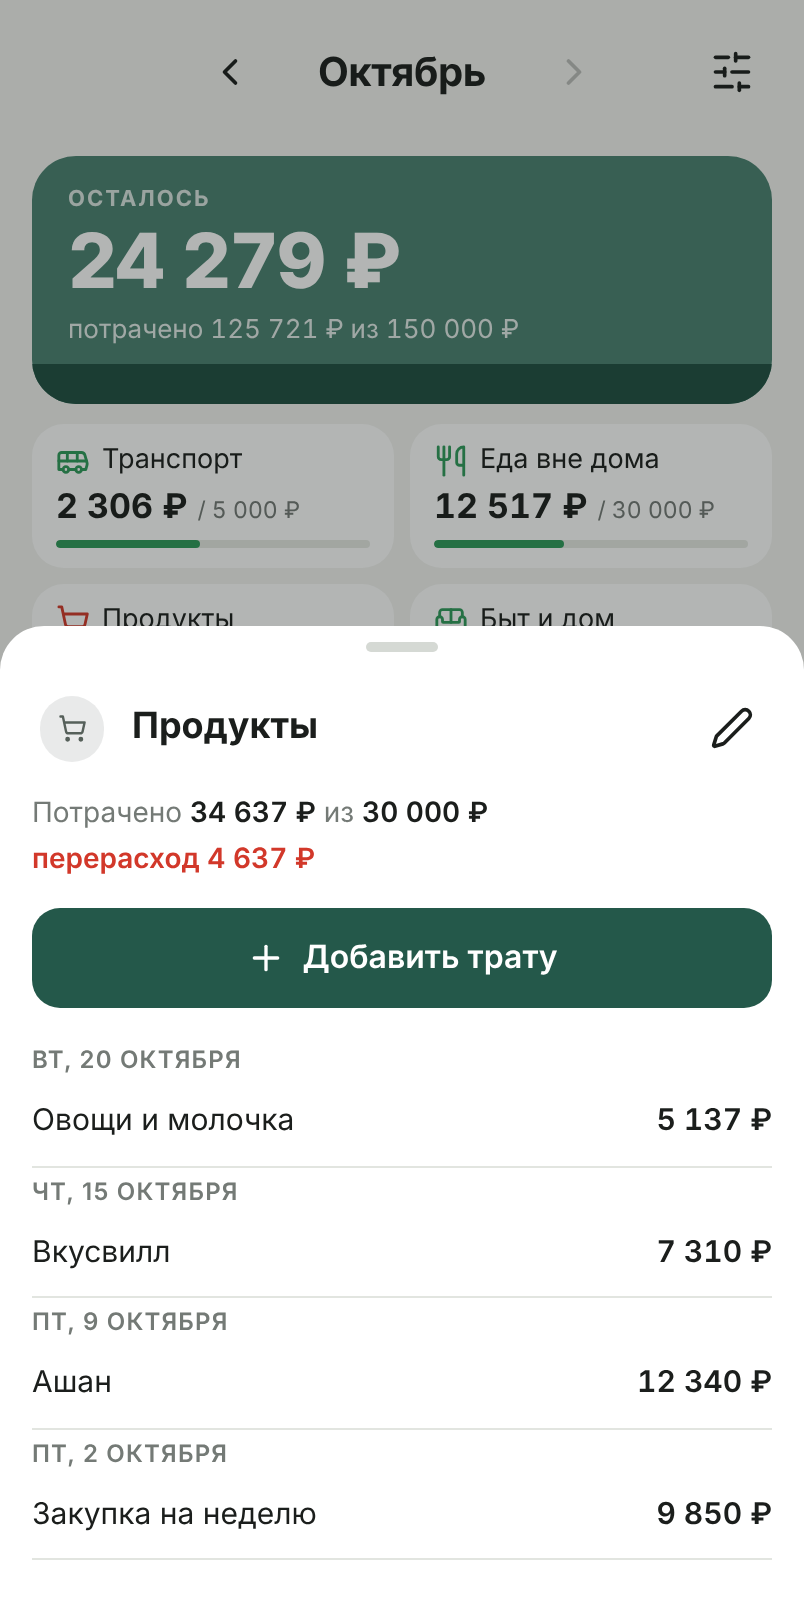
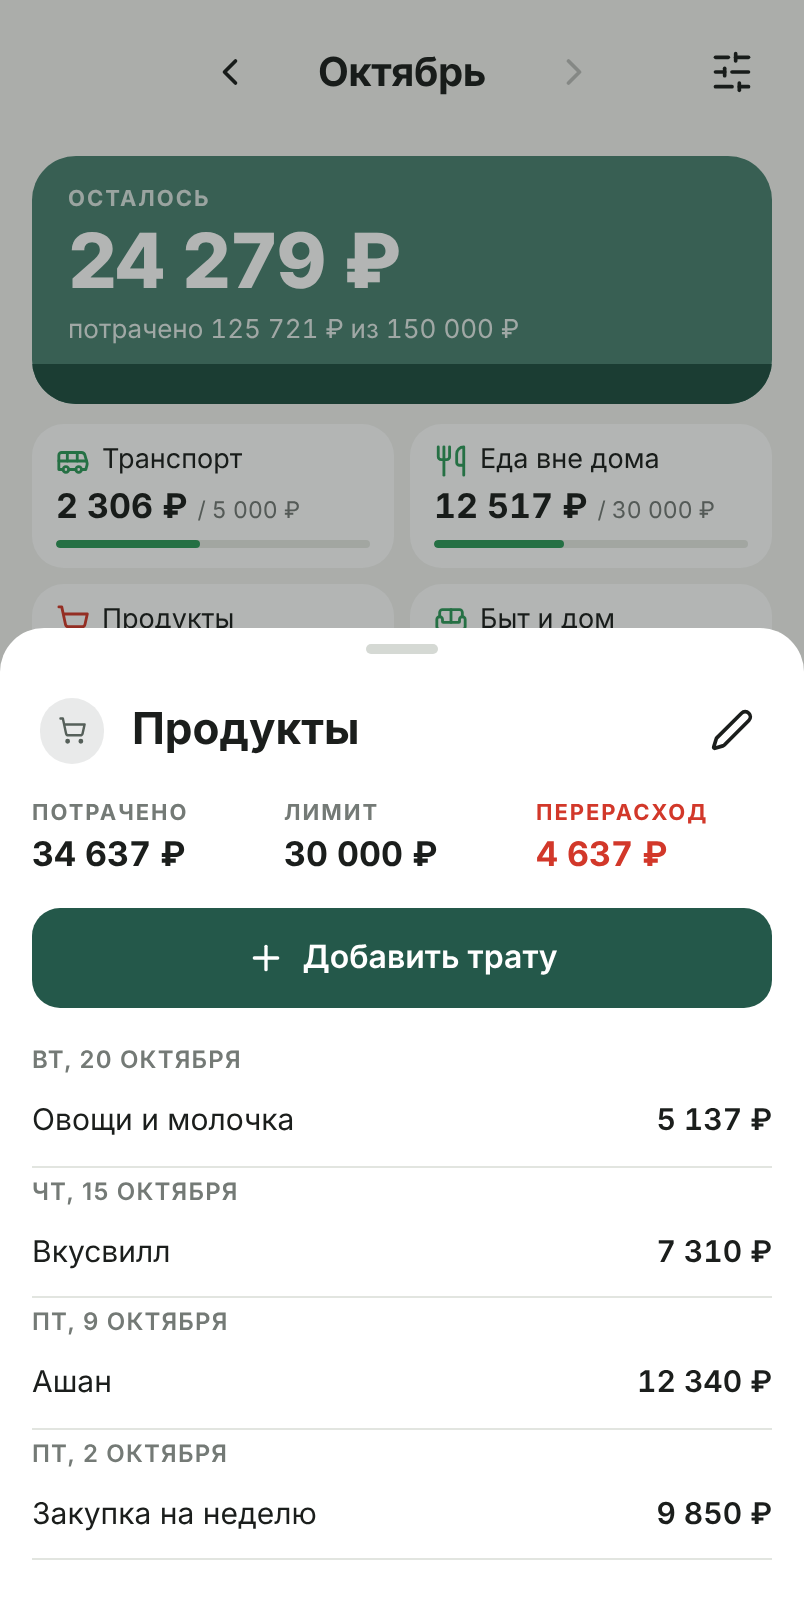
v19: сводка истории категории — три колонки цифр, название 22 px
Claude-Session: https://claude.ai/code/session_01NUxBgZgHQdb2XAd7oC1HRD

diff --git a/index.html b/index.html
@@ -148,6 +148,7 @@ body.dragging .cat:not(.add) { box-shadow: 0 0 0 1.5px var(--line); }
 .sheet-head { display: flex; align-items: center; gap: 10px; min-height: 40px; }
 .sheet-head h2 { font-size: 18px; margin: 0; flex: 1; min-width: 0; overflow: hidden; text-overflow: ellipsis; white-space: nowrap; }
 .sheet-head .disc { width: 40px; height: 40px; flex: none; }
+.cat-head h2 { font-size: 22px; }
 
 .amount { display: flex; align-items: baseline; gap: 6px; border-bottom: 2px solid var(--line); padding-bottom: 4px; }
 .amount:focus-within { border-color: var(--accent); }
@@ -267,9 +268,10 @@ input[type=date].input { min-height: 44px; }
 .btn svg { width: 20px; height: 20px; }
 .actions { display: flex; flex-direction: column; gap: 8px; }
 
-.summary { display: flex; flex-wrap: wrap; gap: 4px 12px; font-size: 14px; color: var(--muted); }
-.summary b { color: var(--fg); font-weight: 600; }
-.summary .over { color: var(--danger); font-weight: 600; }
+.summary { display: grid; grid-template-columns: repeat(3, 1fr); gap: 8px; color: var(--muted); }
+.summary .k { display: block; font-size: 11px; font-weight: 700; letter-spacing: .09em; text-transform: uppercase; margin-bottom: 3px; }
+.summary .v { display: block; font-size: 17px; font-weight: 700; color: var(--fg); white-space: nowrap; }
+.summary .over .k, .summary .over .v { color: var(--danger); }
 .day { font-size: 12px; color: var(--muted); text-transform: uppercase; letter-spacing: .05em; font-weight: 600; margin-top: 4px; }
 .tx { display: flex; justify-content: space-between; align-items: center; gap: 12px; padding: 12px 0; border-bottom: 1px solid var(--line); width: 100%; text-align: left; }
 .tx .c { min-width: 0; overflow: hidden; text-overflow: ellipsis; white-space: nowrap; }
@@ -1334,12 +1336,11 @@ function openCategory(id) {
     }
     list += `<button class="tx" data-t="${t.id}"><span class="c">${esc(t.comment || '')}</span><span class="a num">${rub(t.amount)}</span></button>`;
   }
-  const summary = limit == null
-    ? `<span>Потрачено <b class="num">${rub(spent)}</b></span>`
-    : `<span>Потрачено <b class="num">${rub(spent)}</b> из <b class="num">${rub(limit)}</b></span>` +
-      (spent > limit ? `<span class="over num">перерасход ${rub(spent - limit)}</span>` : `<span class="num">осталось ${rub(limit - spent)}</span>`);
+  const stat = (k, v, cls = '') => `<span class="${cls}"><span class="k">${k}</span><span class="v num">${rub(v)}</span></span>`;
+  const summary = stat('Потрачено', spent) + (limit == null ? ''
+    : stat('Лимит', limit) + (spent > limit ? stat('Перерасход', spent - limit, 'over') : stat('Осталось', limit - spent)));
   const s = openSheet(`
-    <div class="sheet-head">${disc({ iconName: c.icon, color: NEUTRAL })}<h2>${esc(c.name)}</h2>
+    <div class="sheet-head cat-head">${disc({ iconName: c.icon, color: NEUTRAL })}<h2>${esc(c.name)}</h2>
       <button class="icon-btn" id="cat-edit" aria-label="Настроить категорию">${icon('pencil')}</button>${closeBtn}</div>
     <div class="summary">${summary}</div>
     <button class="btn primary" id="cat-add">${icon('plus')} Добавить трату</button>

diff --git a/src/app.html b/src/app.html
@@ -134,6 +134,7 @@ body.dragging .cat:not(.add) { box-shadow: 0 0 0 1.5px var(--line); }
 .sheet-head { display: flex; align-items: center; gap: 10px; min-height: 40px; }
 .sheet-head h2 { font-size: 18px; margin: 0; flex: 1; min-width: 0; overflow: hidden; text-overflow: ellipsis; white-space: nowrap; }
 .sheet-head .disc { width: 40px; height: 40px; flex: none; }
+.cat-head h2 { font-size: 22px; }
 
 .amount { display: flex; align-items: baseline; gap: 6px; border-bottom: 2px solid var(--line); padding-bottom: 4px; }
 .amount:focus-within { border-color: var(--accent); }
@@ -253,9 +254,10 @@ input[type=date].input { min-height: 44px; }
 .btn svg { width: 20px; height: 20px; }
 .actions { display: flex; flex-direction: column; gap: 8px; }
 
-.summary { display: flex; flex-wrap: wrap; gap: 4px 12px; font-size: 14px; color: var(--muted); }
-.summary b { color: var(--fg); font-weight: 600; }
-.summary .over { color: var(--danger); font-weight: 600; }
+.summary { display: grid; grid-template-columns: repeat(3, 1fr); gap: 8px; color: var(--muted); }
+.summary .k { display: block; font-size: 11px; font-weight: 700; letter-spacing: .09em; text-transform: uppercase; margin-bottom: 3px; }
+.summary .v { display: block; font-size: 17px; font-weight: 700; color: var(--fg); white-space: nowrap; }
+.summary .over .k, .summary .over .v { color: var(--danger); }
 .day { font-size: 12px; color: var(--muted); text-transform: uppercase; letter-spacing: .05em; font-weight: 600; margin-top: 4px; }
 .tx { display: flex; justify-content: space-between; align-items: center; gap: 12px; padding: 12px 0; border-bottom: 1px solid var(--line); width: 100%; text-align: left; }
 .tx .c { min-width: 0; overflow: hidden; text-overflow: ellipsis; white-space: nowrap; }
@@ -1317,12 +1319,11 @@ function openCategory(id) {
     }
     list += `<button class="tx" data-t="${t.id}"><span class="c">${esc(t.comment || '')}</span><span class="a num">${rub(t.amount)}</span></button>`;
   }
-  const summary = limit == null
-    ? `<span>Потрачено <b class="num">${rub(spent)}</b></span>`
-    : `<span>Потрачено <b class="num">${rub(spent)}</b> из <b class="num">${rub(limit)}</b></span>` +
-      (spent > limit ? `<span class="over num">перерасход ${rub(spent - limit)}</span>` : `<span class="num">осталось ${rub(limit - spent)}</span>`);
+  const stat = (k, v, cls = '') => `<span class="${cls}"><span class="k">${k}</span><span class="v num">${rub(v)}</span></span>`;
+  const summary = stat('Потрачено', spent) + (limit == null ? ''
+    : stat('Лимит', limit) + (spent > limit ? stat('Перерасход', spent - limit, 'over') : stat('Осталось', limit - spent)));
   const s = openSheet(`
-    <div class="sheet-head">${disc({ iconName: c.icon, color: NEUTRAL })}<h2>${esc(c.name)}</h2>
+    <div class="sheet-head cat-head">${disc({ iconName: c.icon, color: NEUTRAL })}<h2>${esc(c.name)}</h2>
       <button class="icon-btn" id="cat-edit" aria-label="Настроить категорию">${icon('pencil')}</button>${closeBtn}</div>
     <div class="summary">${summary}</div>
     <button class="btn primary" id="cat-add">${icon('plus')} Добавить трату</button>

diff --git a/sw.js b/sw.js
@@ -1,5 +1,5 @@
 // Generated by build.py. VERSION changes on every release so phones pick up the new files.
-const VERSION = 'v18';
+const VERSION = 'v19';
 const FILES = ['./', './index.html', './manifest.json', './icon-180.png', './icon-192.png', './icon-512.png'];
 self.addEventListener('install', (e) => { e.waitUntil(caches.open(VERSION).then((c) => c.addAll(FILES))); self.skipWaiting(); });
 self.addEventListener('activate', (e) => { e.waitUntil(caches.keys().then((ks) => Promise.all(ks.filter((k) => k !== VERSION).map((k) => caches.delete(k))))); self.clients.claim(); });

diff --git a/build.py b/build.py
@@ -7,7 +7,7 @@ Bump VERSION on every release: phones only pick up new files when the service wo
 import json, pathlib, re
 from PIL import Image, ImageDraw
 
-VERSION = 'v18'
+VERSION = 'v19'
 ROOT = pathlib.Path(__file__).parent
 app = (ROOT / 'src/app.html').read_text()
 

diff --git a/docs/SPEC.md b/docs/SPEC.md
@@ -1,6 +1,6 @@
 # Спецификация: Месячный бюджет
 
-Текущая версия: **v18** (01.11.2026). Документ описывает, как приложение работает сейчас. Почему сделано именно так — в [DECISIONS.md](DECISIONS.md), как выглядит — в [DESIGN.md](DESIGN.md), что менялось — в [CHANGELOG.md](CHANGELOG.md).
+Текущая версия: **v19** (01.11.2026). Документ описывает, как приложение работает сейчас. Почему сделано именно так — в [DECISIONS.md](DECISIONS.md), как выглядит — в [DESIGN.md](DESIGN.md), что менялось — в [CHANGELOG.md](CHANGELOG.md).
 
 Скриншоты в `screens/` делает `docs/shoot.py` из кода на примерах данных, на дату пн 26.10.2026.
 
@@ -356,8 +356,8 @@
 <img src="screens/18-category-history.png" width="240">
 
 Шторка по нажатию на плитку.
-- **Заголовок:** иконка, название, карандаш (настройка категории).
-- **Сводка:** «Потрачено X из Y» и «осталось Z» или красное «перерасход Z». Без лимита — только «Потрачено X».
+- **Заголовок:** иконка, название (22 px), карандаш (настройка категории).
+- **Сводка — три колонки:** «ПОТРАЧЕНО», «ЛИМИТ», «ОСТАЛОСЬ» или красная «ПЕРЕРАСХОД»; подпись капсом, под ней число. Без лимита — одна колонка «ПОТРАЧЕНО». Высота сводки всегда одинаковая.
 - Кнопка «+ Добавить трату».
 - Траты за открытый месяц по дням, новые сверху: заголовок дня «пн, 20 октября», строки «комментарий — сумма»; без комментария слева пусто. Нажатие на строку открывает правку (4.8).
 - Пусто: «В октябре трат нет».

diff --git a/docs/DECISIONS.md b/docs/DECISIONS.md
@@ -35,6 +35,7 @@
 - **При перетаскивании «₽» к краю сетки она прокручивается сама.** Иначе на маленьком экране до нижних плиток было не дотащить. (v17)
 - **Нижняя панель опущена на 8 px к полоске «Домой».** Сравнивали 8 и 14 px. (v17)
 - **Подсказка «перетащите» по центру.** (v17)
+- **Сводка истории категории — три колонки цифр** (потрачено / лимит / осталось или перерасход). Строка «Потрачено X из Y · осталось Z» то влезала в одну строку, то переносилась; вариант «всегда две строки» тоже рассматривали — цифры читаются быстрее. Название категории 22 px. (v19)
 - **В истории категории без лимита — только «Потрачено X», трата без комментария — пустое место, а не «Без комментария».** Лишний серый текст. (v17)
 - **Шторки и страница тегов открываются мягче, чем закрываются: 380 мс, плавный старт, с уже отрисованного кадра.** Резкая кривая и пропущенные первые кадры давали «выпрыгивание» при открытии; закрытие было плавным. (v17)
 - **Нижняя панель — «холм» во всю ширину, а не круглая кнопка.** Она уравновешивает шапку. (v2, оставлено в v6)

diff --git a/docs/CHANGELOG.md b/docs/CHANGELOG.md
@@ -2,6 +2,10 @@
 
 Номер версии = `VERSION` в `build.py` (имя кэша service worker). Даты — 2026 год.
 
+## v19 — 01.11 · Сводка категории
+- В истории категории сводка — три колонки: «Потрачено», «Лимит», «Осталось» / «Перерасход». Больше не переносится на вторую строку.
+- Название категории в шторке крупнее: 22 px.
+
 ## v18 — 01.11 · Дата в форме
 - Дата в кнопке формы траты крупнее: цифры «29.10» 21 px жирно, день недели 16 px, «Сегодня» и «Вчера» 19 px жирно. Колесо не менялось.
 - Новый скриншот `25-date-chip`.

diff --git a/docs/DESIGN.md b/docs/DESIGN.md
@@ -55,7 +55,8 @@
 | Остаток в карточке | 38 / 800 |
 | Сумма в форме | 38 / 700 |
 | Подписи-капсом («ОСТАЛОСЬ») | 11 / 700, разрядка .09em |
-| Заголовок шторки | 18 / 700 |
+| Заголовок шторки | 18 / 700; название категории в истории 22 / 700 |
+| Сводка в истории категории | подпись 11 / 700 капсом, разрядка .09em; число 17 / 700 |
 | Сумма на плитке | 17 / 700 |
 | Название на плитке | 13.5 / 400 |
 | Лимит на плитке | 11.5 |
